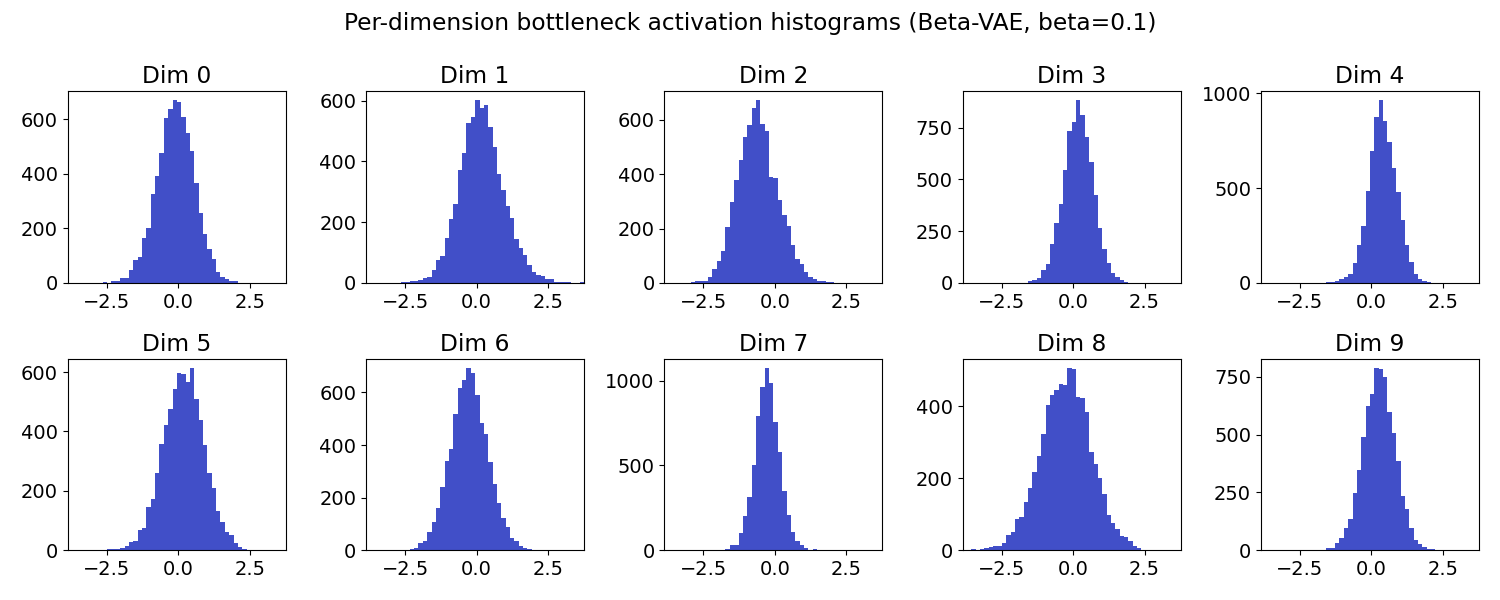
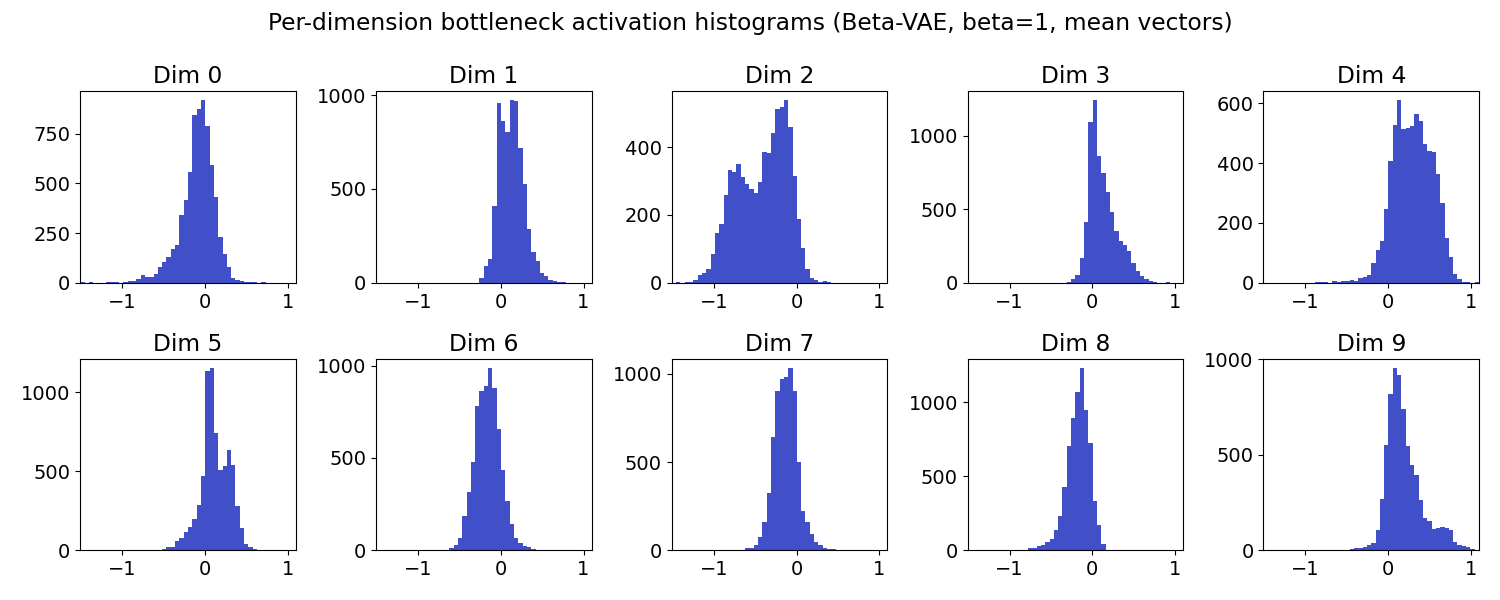
add vanilla AE and VAE-mean latent clustering comparisons vs ground truth
postprocessing_masked.py: fixes the stale w{i}/b{i} unpacking (removed,
unused), applies pixel masking to normalization, and adds savefig calls.
Run against the vanilla AE checkpoint for the first time this session -
KMC and GMM both recover the ground-truth diagonal crop bands clearly,
and UMAP shows real class clusters. Reconstruction-only self-supervised
training does discover class structure here.

postprocessing_vae_masked.py: now clusters the VAE's deterministic mean
vector instead of the noise-sampled bottleneck, to isolate the encoder's
learned structure from reparameterization sampling noise. At beta=1,
clustering mean vectors recovers real (if noisier) class structure,
unlike clustering the sampled bottleneck which showed no structure at
all. This points to the sampling noise itself, not the encoder's learned
representation, as the main obstacle to VAE-based clustering.

diff --git a/scripts/postprocessing_masked.py b/scripts/postprocessing_masked.py
@@ -25,10 +25,6 @@ gt_classnum = len(unique_labels)
 
 recoded = np.searchsorted(unique_labels,ground_truth_flat)
 
-checkpoint1 = np.load('outputs/trained_model_masked.npz')
-w_list = [checkpoint1[f'w{i}'] for i in range(6)]
-b_list = [checkpoint1[f'b{i}'] for i in range(6)]
-
 checkpoint2 = np.load('outputs/bott_output_masked.npz')
 bottleneck = checkpoint2['bottleneck']
 output = checkpoint2['output']
@@ -43,6 +39,17 @@ num_bands = data.shape[-1]
 # 7138 1x204-dim vectors
 data_reshaped = data.reshape(num_pixels, num_bands)
 
+# Pixels (row=12, col=13) and (row=12, col=14) show ~19-sigma within-class spikes
+# isolated to mutually exclusive band groups (edge bands / water-absorption bands
+# respectively), consistent with a sensor glitch rather than real reflectance.
+# Excluded from band statistics and zeroed post-normalization so they don't
+# distort global mean/std or inject anomalous gradients, while preserving the
+# 83x86 grid shape for downstream reshaping.
+bad_pixel_mask = np.zeros((data.shape[0], data.shape[1]), dtype=bool)
+bad_pixel_mask[12, 13] = True
+bad_pixel_mask[12, 14] = True
+good_pixel_mask = ~bad_pixel_mask
+
 # z-scoring
 # Normalize input so that the pixels of each band are centered on 0, with stdev = 1
 # --> A useless network will produce MSE loss ~ 1
@@ -50,9 +57,11 @@ data_z = np.zeros((data.shape[0], data.shape[1], data.shape[2]))
 epsilon = 10**-6
 
 for j in range(data.shape[-1]):
-	mean = np.mean(data[:,:,j])
-	std = np.std(data[:,:,j])
+	mean = np.mean(data[:,:,j][good_pixel_mask])
+	std = np.std(data[:,:,j][good_pixel_mask])
 	data_z[:,:,j] = (data[:,:,j] - mean) / (std + epsilon)		# add infinitesimal epsilon in case std = 0
+
+data_z[bad_pixel_mask, :] = 0
 
 data_z_reshaped = data_z.reshape(num_pixels, num_bands)
 
@@ -80,7 +89,8 @@ handles = [plt.Line2D([0], [0], marker='o', color='w', markerfacecolor=colors[i]
 
 plt.legend(handles=handles, bbox_to_anchor=(1.05, 1), loc='upper left')
 plt.tight_layout()
-plt.title('UMAP embedding of Bottleneck features')
+plt.title('UMAP embedding of Bottleneck features (vanilla AE)')
+plt.savefig('images/umap_bottleneck_vanilla_masked.png')
 
 #############################################
 ############# GMM on Bottleneck #############
@@ -312,6 +322,7 @@ im = ax_loss.imshow(p_loss, cmap='plasma', vmin=0, vmax=1)
 ax_loss.set_title('Per-Pixel Loss')
 fig_loss.colorbar(im, ax=ax_loss, label='Per-Pixel Loss', fraction=0.03, pad=0.04)
 plt.tight_layout()
+plt.savefig('images/perpixel_loss_vanilla_masked.png')
 
 fig, (ax1, ax2, ax3) = plt.subplots(1, 3, figsize=(18,6))
 
@@ -327,7 +338,7 @@ ax3.set_title('Ground Truth')
 
 plt.subplots_adjust(bottom=0.15)
 fig.legend(handles=handles, loc='lower center', ncol=4, bbox_to_anchor=(0.5, 0.01))
-plt.tight_layout
+plt.savefig('images/kmc_gmm_ground_truth_vanilla_masked.png')
 
 ####################################################
 ############# More Bottleneck Analysis #############
@@ -341,7 +352,8 @@ for i in range(d):
     axes[i].set_title(f'Dim {i}')
     axes[i].set_xlim(-1, 1)
 
-plt.suptitle('Per-dimension bottleneck activation histograms')
+plt.suptitle('Per-dimension bottleneck activation histograms (vanilla AE)')
 plt.tight_layout()
 
+plt.savefig('images/vanilla_bottleneck_histograms_masked.png')
 plt.show()

diff --git a/scripts/postprocessing_vae_masked.py b/scripts/postprocessing_vae_masked.py
@@ -25,8 +25,11 @@ gt_classnum = len(unique_labels)
 
 recoded = np.searchsorted(unique_labels,ground_truth_flat)
 
-checkpoint2 = np.load('outputs/bott_output_beta0.1_masked.npz')
-bottleneck = checkpoint2['bottleneck']
+checkpoint2 = np.load('outputs/bott_output_beta1_masked.npz')
+# Clustering the deterministic mean vector (not the noise-sampled bottleneck)
+# isolates whether the encoder itself separates classes, independent of the
+# reparameterization-trick sampling noise added on top.
+bottleneck = checkpoint2['mean']
 output = checkpoint2['output']
 
 ##### Repeat normalizing
@@ -89,8 +92,8 @@ handles = [plt.Line2D([0], [0], marker='o', color='w', markerfacecolor=colors[i]
 
 plt.legend(handles=handles, bbox_to_anchor=(1.05, 1), loc='upper left')
 plt.tight_layout()
-plt.title('UMAP embedding of Bottleneck features (Beta-VAE, beta=0.1)')
-plt.savefig('images/umap_bottleneck_beta0.1_masked.png')
+plt.title('UMAP embedding of Bottleneck features (Beta-VAE, beta=1, mean vectors)')
+plt.savefig('images/umap_bottleneck_beta1_mean_masked.png')
 
 #############################################
 ############# GMM on Bottleneck #############
@@ -322,7 +325,7 @@ im = ax_loss.imshow(p_loss, cmap='plasma', vmin=0, vmax=1)
 ax_loss.set_title('Per-Pixel Loss')
 fig_loss.colorbar(im, ax=ax_loss, label='Per-Pixel Loss', fraction=0.03, pad=0.04)
 plt.tight_layout()
-plt.savefig('images/perpixel_loss_beta0.1_masked.png')
+plt.savefig('images/perpixel_loss_beta1_mean_masked.png')
 
 fig, (ax1, ax2, ax3) = plt.subplots(1, 3, figsize=(18,6))
 
@@ -338,7 +341,7 @@ ax3.set_title('Ground Truth')
 
 plt.subplots_adjust(bottom=0.15)
 fig.legend(handles=handles, loc='lower center', ncol=4, bbox_to_anchor=(0.5, 0.01))
-plt.savefig('images/kmc_gmm_ground_truth_beta0.1_masked.png')
+plt.savefig('images/kmc_gmm_ground_truth_beta1_mean_masked.png')
 
 ####################################################
 ############# More Bottleneck Analysis #############
@@ -354,7 +357,7 @@ for i in range(d):
     axes[i].set_title(f'Dim {i}')
     axes[i].set_xlim(hist_range)
 
-plt.suptitle('Per-dimension bottleneck activation histograms (Beta-VAE, beta=0.1)')
+plt.suptitle('Per-dimension bottleneck activation histograms (Beta-VAE, beta=1, mean vectors)')
 plt.tight_layout()
 
 plt.savefig('images/vae_bottleneck_histograms_masked.png')
